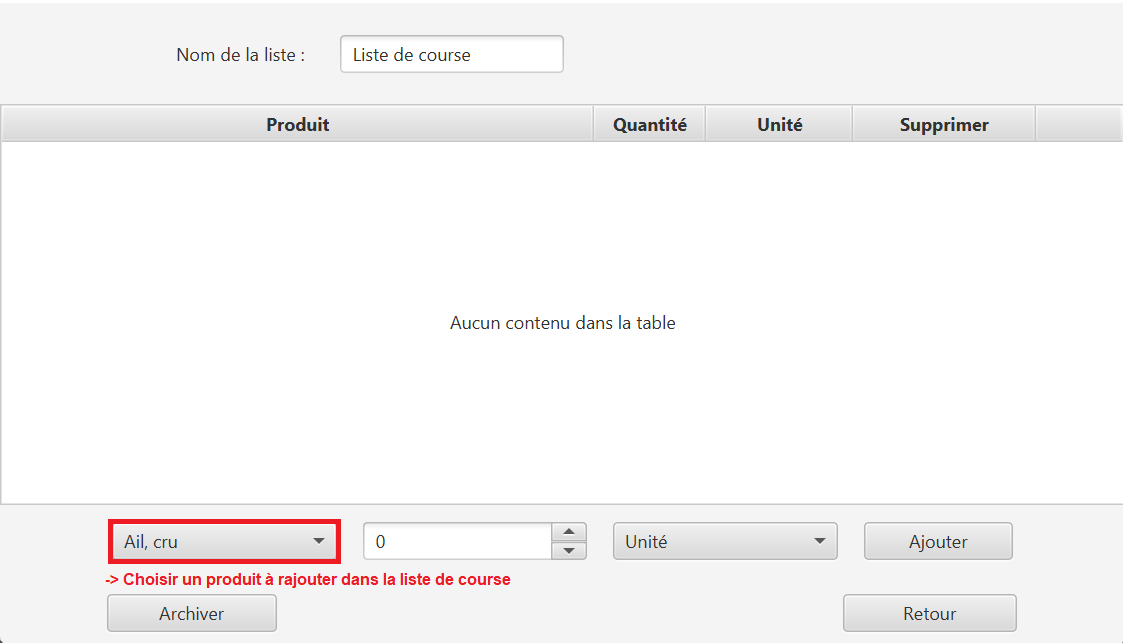
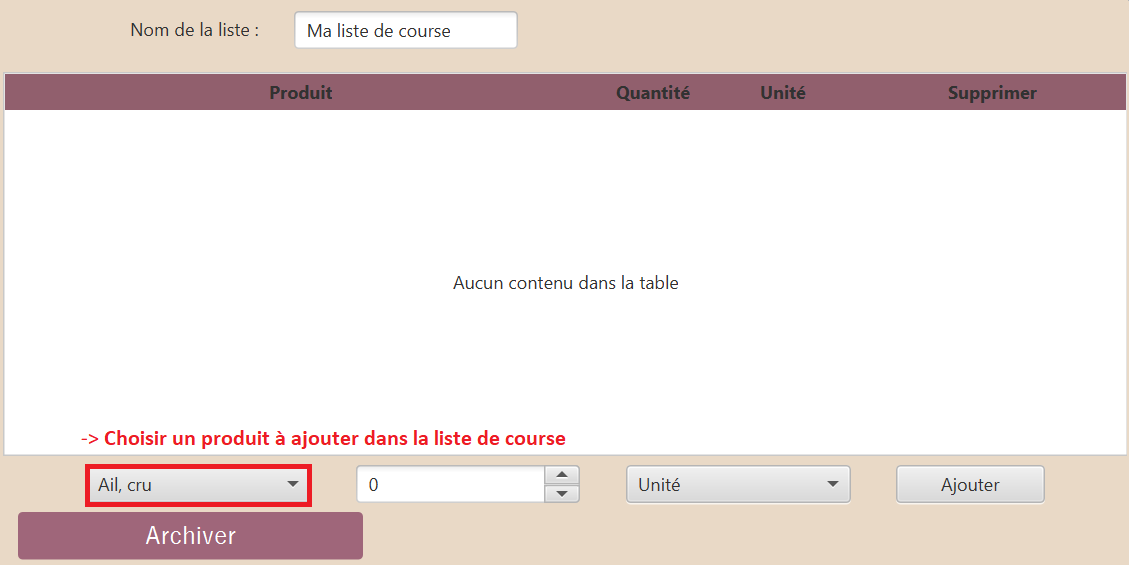
[MOD] help create shopping avec new interface

diff --git a/src/main/java/ulb/infof307/g01/controller/shoppingList/CreateShoppingListController.java b/src/main/java/ulb/infof307/g01/controller/shoppingList/CreateShoppingListController.java
@@ -19,7 +19,7 @@ import java.util.Vector;
  */
 public class CreateShoppingListController extends ShoppingListController {
 
-    public static final int NUMBER_OF_IMAGE_HELP = 8;
+    public static final int NUMBER_OF_IMAGE_HELP = 7;
 
     public CreateShoppingListController(ListenerBackPreviousWindow listenerBackPreviousWindow) {
         super(listenerBackPreviousWindow);
